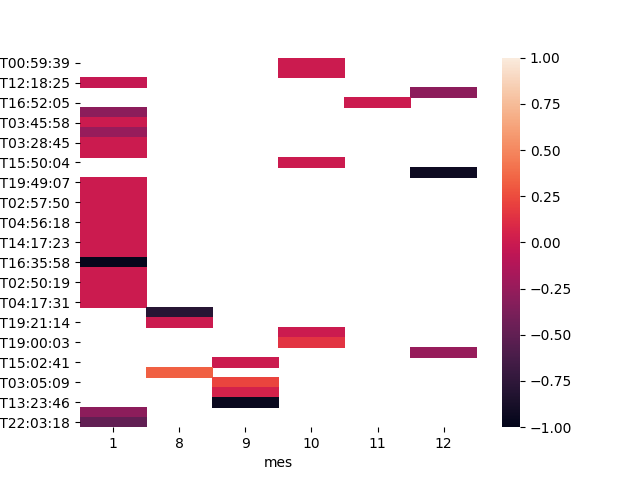
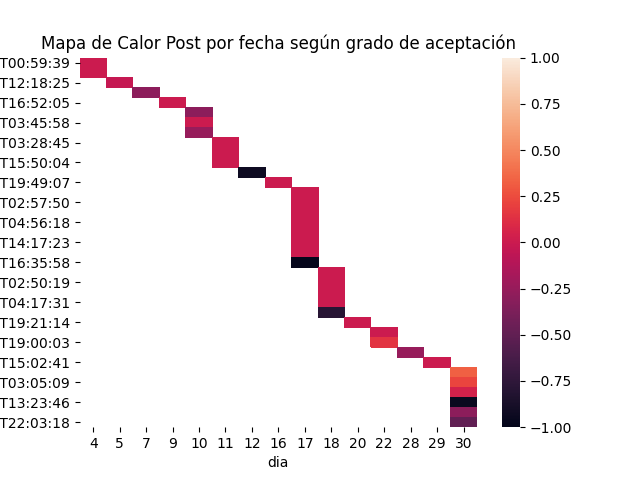
HeatMaps Actualziados

diff --git a/analysis/analysis_instagram.py b/analysis/analysis_instagram.py
@@ -73,16 +73,29 @@ df_insta_Destacados.fecha=df_insta_Destacados.fecha.str[7:19]
 
 df_insta_Recientes.fecha=df_insta_Recientes.fecha.str[7:19]
 
+df_insta_Recientes.mes= df_insta_Recientes.mes.astype(int)
 
-instaDestacados = df_insta_Destacados.pivot(index='fecha', columns='mes', values='sentimiento')
+df_insta_Recientes = df_insta_Recientes[(df_insta_Recientes['mes'] == 1)]
+
+
+
+instaDestacados = df_insta_Destacados.pivot(index='fecha', columns='dia', values='sentimiento')
 instd = sns.heatmap(instaDestacados, vmin=-1, vmax=1)
-instd.figure.savefig("HeatMapPostDestacadosPorDia.png")
+# instd.figure.savefig("HeatMapPostDestacadosPorDia.png")
+
+plt.title('Mapa de Calor Post por fecha según grado de aceptación')
+
+plt.savefig('HeatMapPostDestacadosPorDia.png')   
 
 
 
 instaRecientes = df_insta_Recientes.pivot(index='fecha', columns='dia', values='sentimiento')
 instr = sns.heatmap(instaRecientes, vmin=-1, vmax=1)
-instr.figure.savefig("HeatMapPostRecientesPorDia.png")
+# instr.figure.savefig("HeatMapPostRecientesPorDia.png")
+
+plt.title('Mapa de Calor Post por fecha según grado de aceptación')
+
+plt.savefig('HeatMapPostRecientesPorDia.png')   
 
 
 
